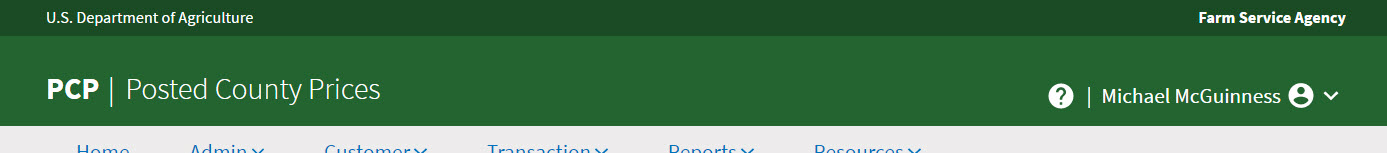
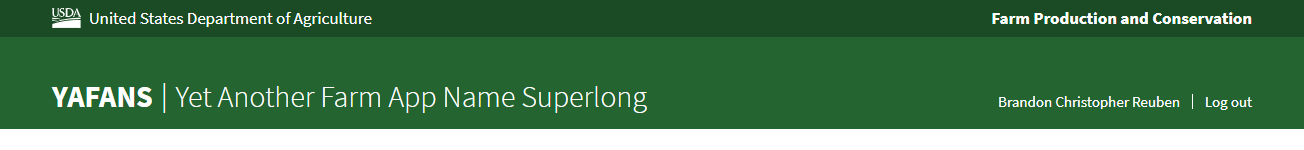
app docs impacted by #259

diff --git a/guides/applications/tables.md b/guides/applications/tables.md
@@ -87,7 +87,7 @@ Below is the default table style that should be used in the majority of instance
       <td>74.70</td>
       <td>0.00</td>
       <td>0.00</td>
-      <td><button class="fsa-btn fsa-btn--primary" type="button">Save</button></td>
+      <td><button class="fsa-btn fsa-btn--small fsa-btn--block fsa-btn--primary" type="button">Save</button></td>
     </tr>
     <tr>
       <td>700</td>
@@ -97,76 +97,10 @@ Below is the default table style that should be used in the majority of instance
       <td>7.80</td>
       <td>0.00</td>
       <td>0.00</td>
-      <td><button class="fsa-btn fsa-btn--primary" type="button">Save</button></td>
+      <td><button class="fsa-btn fsa-btn--small fsa-btn--block fsa-btn--primary" type="button">Save</button></td>
     </tr>
     </tbody>
 </table>
-
-<p>
-  <button class="fsa-btn fsa-btn--secondary" type="button">Back</button>
-  <button class="fsa-btn fsa-btn--secondary" type="button">Modify Search</button>
-</p>
-
-<!--
-
-___
-
-
-### Select Receipts for View
-<div class="fsa-grid">
-  <div class="fsa-grid__1/2"><strong>State:</strong> All states - 00</div>
-  <div class="fsa-grid__1/2"><strong>Country:</strong> All counties - 00</div>
-  <div class="fsa-grid__1/2"><strong>Commodity:</strong> Peanuts - All</div>
-  <div class="fsa-grid__1/2"><strong>Crop Year:</strong> 2016</div>
-  <div class="fsa-grid__1/2"><strong>Warehouse Code:</strong> 72150</div>
-  <div class="fsa-grid__1/2"><strong>Filesequence Number:</strong> </div>
-</div>
-
-<div class="fsa-clearfix">
-<div class="fsa-float--right">
-    <button class="fsa-btn fsa-btn--secondary" type="button">FPAC View</button> <button class="fsa-btn fsa-btn--secondary" type="button">Provider View</button>
-</div>
-</div>
-
-<table class="fsa-table">
-  <thead>
-    <tr>
-      <th scope="col">Farm Number</th>
-      <th scope="col">Tract Number</th>
-      <th scope="col">Description</th>
-      <th scope="col">Farmland Acres</th>
-      <th scope="col">Cropland Acres</th>
-      <th scope="col">CRP Cropland Acres</th>
-      <th scope="col">CRP MPL Acres</th>
-      <th scope="col">Controls</th>
-    </tr>
-  </thead>
-  <tbody>
-    <tr>
-      <td>700</td>
-      <td>1269</td>
-      <td>H10 NE4 35-14-23</td>
-      <td>160.00</td>
-      <td>74.70</td>
-      <td>0.00</td>
-      <td>0.00</td>
-      <td><button class="fsa-btn fsa-btn--primary" type="button">Save</button></td>
-    </tr>
-    <tr>
-      <td>700</td>
-      <td>2804</td>
-      <td>H7 E2SE4 27-13-23</td>
-      <td>20.00</td>
-      <td>7.80</td>
-      <td>0.00</td>
-      <td>0.00</td>
-      <td><button class="fsa-btn fsa-btn--primary" type="button">Save</button></td>
-    </tr>
-    </tbody>
-</table>
-
-<button class="fsa-btn fsa-btn--secondary" type="button">Back</button> <button class="fsa-btn fsa-btn--secondary" type="button">Modify Search</button>
--->
 
 ## Examples with In-line Row Controls
 
@@ -229,11 +163,6 @@ ___
   </tbody>
 </table>
 
-<p>
-  <button class="fsa-btn fsa-btn--secondary" type="button">Back</button> <button class="fsa-btn fsa-btn--primary" type="button">Save</button>
-</p>
-
-
 ## Borderless Table Style
 
 This style of table is generally used for tables with more text content that needs to be displayed without adding extra visual noise. The horizontal row lines help to organize the content and allow the User to effortlessly read across the row. Below is an example of the same tabular data found in the first example above, but in a variation on the table style.
@@ -285,17 +214,17 @@ The below example showcases the Borderless Table Style used with text-heavy cont
     <tr>
       <td>Barley</td>
       <td>Barley, a member of the grass family, is a major cereal grain grown in temperate climates globally. It was one of the first cultivated grains, particularly in Eurasia as early as 10,000 years ago. Barley has been used as animal fodder, as a source of fermentable material for beer and certain distilled beverages, and as a component of various health foods.</td>
-      <td><button class="fsa-btn fsa-btn--secondary" type="button">Edit</button></td>
+      <td><button class="fsa-btn fsa-btn--small fsa-btn--block fsa-btn--secondary" type="button">Edit</button></td>
     </tr>
     <tr>
       <td>Canola</td>
       <td>Canola may refer to an edible and industrial oil (also known as canola oil) produced from the seed of any of several cultivars of rapeseed bred to be low in erucic acid from the Brassicaceae family of plants, or to the plants themselves, namely cultivars of Brassica napus L., Brassica rapa subsp. oleifera, syn. B. campestris L. or Brassica juncea. To be called canola, the oil must contain less than 2% erucic acid and the leftover meal must contain less than 30 micromoles of aliphatic glucosinolates per gram.</td>
-      <td><button class="fsa-btn fsa-btn--secondary" type="button">Edit</button></td>
+      <td><button class="fsa-btn fsa-btn--small fsa-btn--block fsa-btn--secondary" type="button">Edit</button></td>
     </tr>
     <tr>
       <td>Flaxseed</td>
       <td>Flax (also known as common flax or linseed), Linum usitatissimum, is a member of the genus Linum in the family Linaceae. It is a food and fiber crop cultivated in cooler regions of the world. The textiles made from flax are known in the Western countries as linen, and traditionally used for bed sheets, underclothes, and table linen. The oil is known as linseed oil. In addition to referring to the plant itself, the word "flax" may refer to the unspun fibers of the flax plant. The plant species is known only as a cultivated plant, and appears to have been domesticated just once from the wild species Linum bienne, called pale flax.</td>
-      <td><button class="fsa-btn fsa-btn--secondary" type="button">Edit</button></td>
+      <td><button class="fsa-btn fsa-btn--small fsa-btn--block fsa-btn--secondary" type="button">Edit</button></td>
     </tr>
   </tbody>
 </table>

diff --git a/guides/applications/buttons.md b/guides/applications/buttons.md
@@ -8,14 +8,21 @@ intro: "FPAC applications shall have the same look and feel, along with having a
 
 ## Variations and States
 
-The below buttons are the default variations available for use in the Design System. For further details on variations and states, refer to [Button Components]({{ site.baseurl }}components/buttons/).
+The below buttons are the default variations available for use in the Design System. For further details on variations and states, view the [Button Components]({{ site.baseurl }}components/buttons/) component documentation.
 
 <div class="ds-preview">
-  <button class="fsa-btn fsa-btn--primary" type="button">Primary</button>
-  <button class="fsa-btn fsa-btn--secondary" type="button">Secondary</button>
-  <button class="fsa-btn fsa-btn--tertiary" type="button">Tertiary</button>
-  <button class="fsa-btn fsa-btn--primary" disabled="disabled" type="button">Disabled</button>
-  <button class="fsa-btn fsa-btn--flat" type="button">Flat</button>
+  <p>
+      <button class="fsa-btn fsa-btn--primary" type="button">Primary</button>
+      <button class="fsa-btn fsa-btn--secondary" type="button">Secondary</button>
+      <button class="fsa-btn fsa-btn--tertiary" type="button">Tertiary</button>
+      <button class="fsa-btn fsa-btn--flat" type="button">Flat</button>
+  </p>
+  <p>
+      <button class="fsa-btn fsa-btn--primary" type="button" disabled>Disabled Primary</button>
+      <button class="fsa-btn fsa-btn--secondary" type="button" disabled>Disabled Secondary</button>
+      <button class="fsa-btn fsa-btn--tertiary" type="button" disabled>Disabled Tertiary</button>
+      <button class="fsa-btn fsa-btn--flat" type="button" disabled>Disabled Flat</button>
+  </p>
 </div>
 
 ### Primary
@@ -36,28 +43,31 @@ In most cases, a button labeled as "Cancel" should be shown with the Flat style 
 ## Size
 
 <div class="ds-preview">
-  <button class="fsa-btn" type="button">Default</button>
-  <button class="fsa-btn fsa-btn--small" type="button">Small</button>
-  <button class="fsa-btn fsa-btn--large" type="button">Large</button>
+  <button class="fsa-btn fsa-btn--primary" type="button">Default</button>
+  <button class="fsa-btn fsa-btn--primary fsa-btn--small" type="button">Small</button>
+  <button class="fsa-btn fsa-btn--primary fsa-btn--large" type="button">Large</button>
 </div>
 
-## General Guidelines:
+## General Guidelines
 
- * All buttons shall use an action word to start the label. Eg. "View Details" vs. "Details"
+ * All buttons should use an action word to start the label. Eg. "View Details" vs. "Details"
  * A Cancel button shall not be used unless the online form uses a multi-step process
  * A Cancel button shall be used in a Multi-step or multiple screen process so the User feels safe that they are aborting a process
  * A Cancel or Close button action shall clear the contents of the online form for security/privacy purposes
  * When used, the Cancel button should appear as a link (i.e. `fsa-btn--flat` variation) or Secondary button
  * Buttons shall align to the left with primary or progressive/affirmative action on left, and secondary or regressive/dismissive action on right.
 
-## Multi-Step Process Guidelines:
+## Multi-Step Process Guidelines
+
 
  * A **regressive** action shall be left-aligned, followed by right-aligned **progressive** action(s)
  * Back and Next can be used as button labels
  * The saving of data or state is implied and clicking the **"Regressive"** button shall not delete data that has been entered
  * Save or Submit can be used on the final step
 
-## Reset and Clear Guidelines:
+View [Stepped Control]({{ site.baseurl }}fsa-design-system/components/stepped-control/) component for documentation.
+
+## Reset and Clear Guidelines
 
  * Reset is defined as removing all data and returning to the initial state of the application or online form inputs
  * Clear is defined as removing all data from application or online form fields
@@ -379,6 +389,9 @@ ___
     </tbody>
 </table>
 
-## Related Resources
+## Related Components
 
- * [Button Components]({{ site.baseurl }}components/buttons/)
+* [Buttons]({{ site.baseurl }}components/buttons/)
+* [Form Fields]({{ site.baseurl }}fsa-design-system/components/form-fields/)
+* [Stepped Control]({{ site.baseurl }}fsa-design-system/components/stepped-control/)
+* [Search]({{ site.baseurl }}fsa-design-system/components/search/)

diff --git a/guides/applications/header.md b/guides/applications/header.md
@@ -2,9 +2,11 @@
 layout: guide
 parent: "Applications"
 title: "Header"
-intro: "FPAC Applications shall have a consistent header and shall utilize the header component (and associated styles) defined in the Design System. Only certain aspects of the header may be customized for individual applications (specified below).  Fonts, colors, alignment, etc shall not be modified from the common header component provided by the design system.  Nor shall applications add customizations such as logos, imagery, icons, etc."
+intro: "FPAC Applications shall have a consistent header and shall utilize the header component (and associated styles) defined in the Design System."
 
 ---
+
+Only certain aspects of the header may be customized for individual applications (specified below).  Fonts, colors, alignment, etc shall not be modified from the common header component provided by the design system.  Nor shall applications add customizations such as logos, imagery, icons, etc.
 
 Below is a sample screenshot of an FPAC application header that represents a good example of the below guidelines.
 
@@ -12,10 +14,9 @@ Below is a sample screenshot of an FPAC application header that represents a goo
   <a href="{{ site.baseurl }}img/subcategories/applications/app-name-approved.jpg" target="_blank"><img src="{{ site.baseurl }}img/subcategories/applications/app-name-approved.jpg" alt="Image of example application header"></a>
 </figure>
 
-
 ## Department and Agency
 
-The department name and agency name shall be displayed in a consistent style and location as seen in the above example. These elements shall not be customized per application. The Design System will provide responsive behavior based on screen size and condense this section as the screen gets smaller.
+The department name (e.g. USDA) and agency name (e.g. FPAC) shall be displayed in a consistent style and location. These elements shall not be customized per application. The Design System provides responsive behavior based on screen size, providing a relevant condensed rendering as the screen gets smaller.
 
 ## Application Name
 
@@ -25,31 +26,6 @@ The application name shall display as shown in the following format: a paired ac
 
 FPAC applications shall not use an application logo.
 
-## Application Help
+## User Profile and Authentication
 
-All FPAC applications shall use a help icon located next to the User name (see below screenshot) to access the application's help system. When clicked the User will be taken to a separate page with instructions on how to receive help, based on the specific application. The content of the help system shall be decided by Business Requirements for the specific application. The design system only specifies a consistent mechanism to access the help system.
-
-## User Profile & Control System
-
-When a User is logged in to an FPAC application their Display Name shall be displayed at a level complementary to the Application Name.
-
-An **optional Dropdown** may be displayed to reveal further User-specific details and actions, if available and relevant. Example labels and controls to display within the User Control dropdown:
-
-* User Role Label(s)
-* View/Edit Profile Link
-* Application Sign Out Button
-
-<div class="fsa-grid">
-  <div class="fsa-grid__1 fsa-grid__1/2@m">
-    <h3>With Dropdown</h3>
-    <figure>
-      <img src="{{ site.baseurl }}img/subcategories/applications/user-control-dropdown.png" alt="Image of FPAC User Controls">
-    </figure>
-  </div>
-  <div class="fsa-grid__1 fsa-grid__1/2@m">
-    <h3>Without Dropdown</h3>
-    <figure>
-      <img src="{{ site.baseurl }}img/subcategories/applications/user-control-no-dropdown.png" alt="Image of FPAC User Profile display">
-    </figure>
-  </div>
-</div>
+When a User is authenticated into an FPAC application their Full Name shall be displayed at a level complementary to the Application Name, and paired with acces to log out (e.g. eAuth).

diff --git a/components/tophat/index.md b/components/tophat/index.md
@@ -20,7 +20,7 @@ jump_menu: true
       </div>
       <div class="fsa-tophat__secondary">
         <span class="fsa-tophat__subagency">
-          <a class="fsa-tophat__link" href="//fsa.usda.gov" title="Link to FSA homepage">Farm Service Agency</a>
+          <a class="fsa-tophat__link" href="//fsa.usda.gov" title="Link to FSA homepage">Farm Production and Conservation</a>
         </span>
       </div>
     </div>
@@ -40,7 +40,7 @@ jump_menu: true
     </div>
     <div class="fsa-tophat__secondary">
       <span class="fsa-tophat__subagency">
-        <a class="fsa-tophat__link" href="//fsa.usda.gov" title="Link to FSA homepage">Farm Service Agency</a>
+        <a class="fsa-tophat__link" href="//fsa.usda.gov" title="Link to FSA homepage">Farm Production and Conservation</a>
       </span>
     </div>
   </div>
